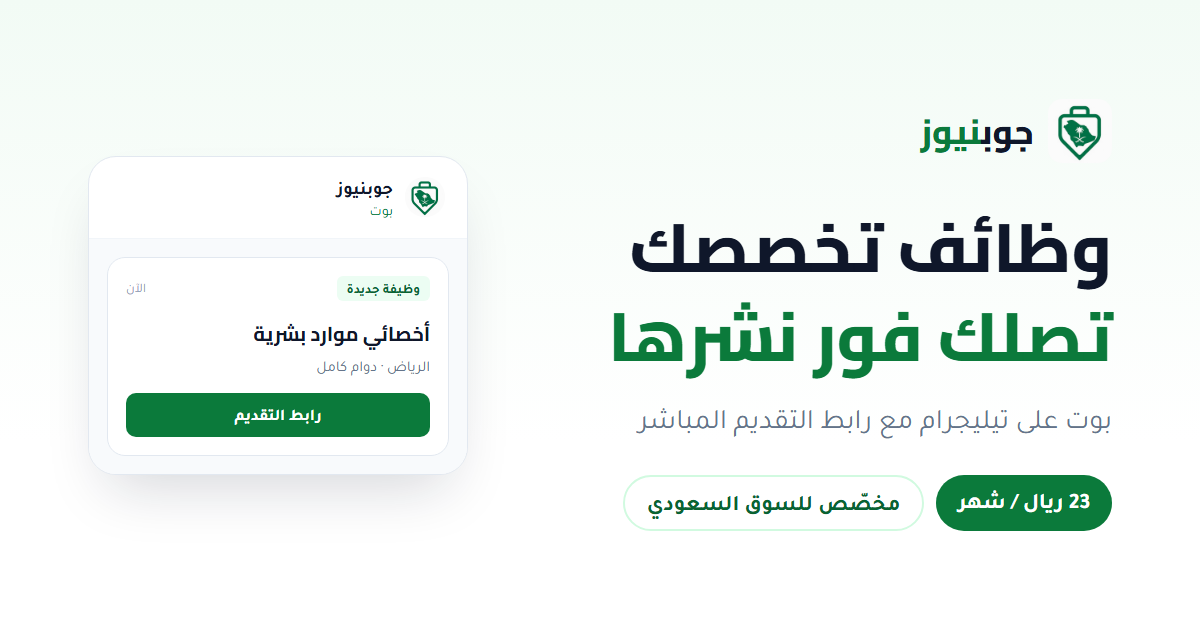
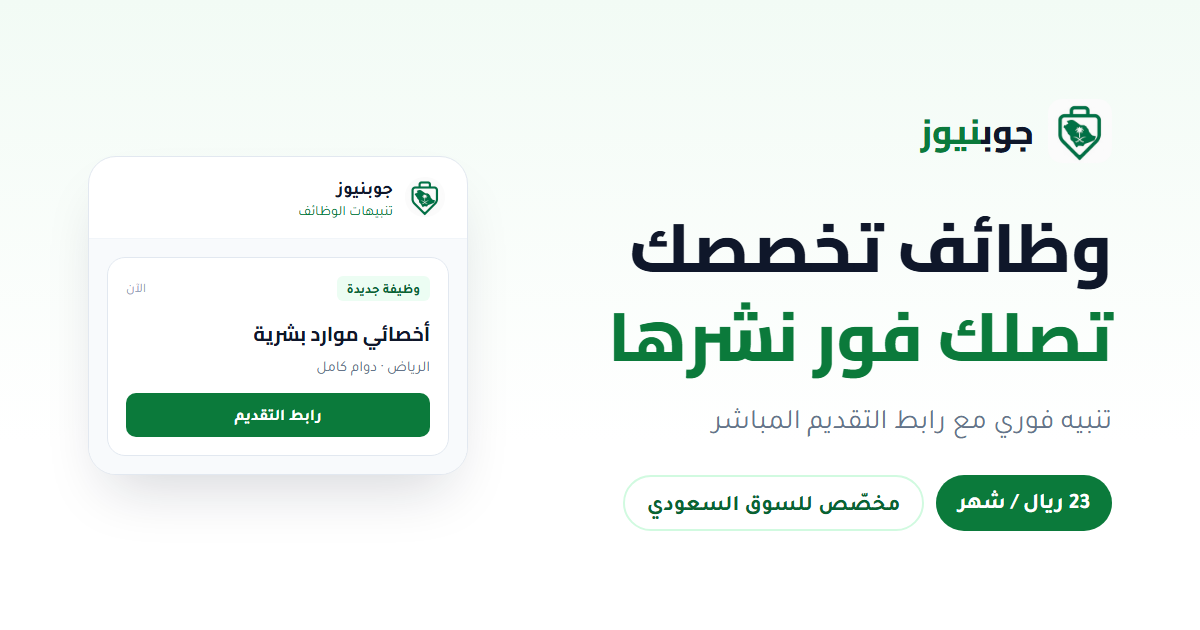
إزالة ذكر البوت وتيليجرام من نصوص الموقع
- إعادة صياغة الوصف الرئيسي ووصف المشاركة وميزة سهل الاستخدام
- حذف عبارة البوت من الصفحات القانونية دون تغيير المعنى
- تحديث صورة المشاركة

Changed region(s): [[0.5242, 0.6333, 0.925, 0.6937], [0.2467, 0.3317, 0.3392, 0.3619]]

diff --git a/index.html b/index.html
@@ -4,7 +4,7 @@
   <meta charset="UTF-8" />
   <meta name="viewport" content="width=device-width, initial-scale=1.0, viewport-fit=cover" />
   <title>جوبنيوز — أتمتة الوظائف وتنبيهات فورية</title>
-  <meta name="description" content="بوت على تيليجرام يرسل لك كل وظيفة جديدة تطلب تخصصك فور نشرها، مع رابط التقديم المباشر. مخصّص للسوق السعودي — 23 ريال لشهر واحد." />
+  <meta name="description" content="تنبيه فوري بكل وظيفة جديدة تطلب تخصصك، مع رابط التقديم المباشر. مخصّص للسوق السعودي — 23 ريال لشهر واحد." />
   <meta name="theme-color" content="#0b7a3b" />
   <link rel="canonical" href="https://jobnewsksa.com/" />
 
@@ -14,7 +14,7 @@
   <meta property="og:site_name" content="جوبنيوز" />
   <meta property="og:url" content="https://jobnewsksa.com/" />
   <meta property="og:title" content="جوبنيوز — وظائف تخصصك تصلك فور نشرها" />
-  <meta property="og:description" content="بوت على تيليجرام يرسل لك كل وظيفة جديدة تطلب تخصصك، مع رابط التقديم المباشر." />
+  <meta property="og:description" content="تنبيه فوري بكل وظيفة جديدة تطلب تخصصك، مع رابط التقديم المباشر." />
   <meta property="og:image" content="https://jobnewsksa.com/assets/og-image.png" />
   <meta property="og:image:width" content="1200" />
   <meta property="og:image:height" content="630" />
@@ -24,7 +24,7 @@
   <meta name="twitter:card" content="summary_large_image" />
   <meta name="twitter:site" content="@jobnewsksa" />
   <meta name="twitter:title" content="جوبنيوز — وظائف تخصصك تصلك فور نشرها" />
-  <meta name="twitter:description" content="بوت على تيليجرام يرسل لك كل وظيفة جديدة تطلب تخصصك، مع رابط التقديم المباشر." />
+  <meta name="twitter:description" content="تنبيه فوري بكل وظيفة جديدة تطلب تخصصك، مع رابط التقديم المباشر." />
   <meta name="twitter:image" content="https://jobnewsksa.com/assets/og-image.png" />
 
   <script type="application/ld+json">
@@ -214,7 +214,7 @@
           </h1>
 
           <p class="mx-auto lg:mx-0 mt-5 max-w-md text-lg leading-relaxed text-slate-500">
-            بوت على تيليجرام يرسل لك كل وظيفة جديدة تطلب تخصصك، مع رابط التقديم المباشر.
+            تنبيه فوري بكل وظيفة جديدة تطلب تخصصك، مع رابط التقديم المباشر.
           </p>
 
           <div class="mt-8 flex flex-col sm:flex-row items-center justify-center lg:justify-start gap-3">
@@ -227,15 +227,15 @@
           </div>
         </div>
 
-        <!-- معاينة تنبيه الوظيفة داخل البوت -->
-        <div class="reveal relative mx-auto w-full max-w-sm" role="img" aria-label="مثال لتنبيه وظيفة داخل بوت جوبنيوز">
+        <!-- معاينة تنبيه الوظيفة -->
+        <div class="reveal relative mx-auto w-full max-w-sm" role="img" aria-label="مثال لتنبيه وظيفة من جوبنيوز">
           <div class="pointer-events-none absolute -inset-6 rounded-[2.5rem] bg-saud-100/50 blur-2xl" aria-hidden="true"></div>
           <div class="relative overflow-hidden rounded-3xl border border-slate-200 bg-white shadow-2xl shadow-slate-900/10" aria-hidden="true">
             <div class="flex items-center gap-3 border-b border-slate-100 px-5 py-4">
               <img src="assets/logo.png" alt="" width="36" height="36" decoding="async" class="h-9 w-9 rounded-full object-contain ring-1 ring-slate-100" />
               <div class="text-right">
                 <p class="text-sm font-bold text-slate-900">جوبنيوز</p>
-                <p class="text-xs text-saud-600">بوت</p>
+                <p class="text-xs text-saud-600">تنبيهات الوظائف</p>
               </div>
             </div>
 
@@ -297,8 +297,8 @@
             <p class="mt-1.5 text-sm leading-relaxed text-slate-500">رابط التقديم مرفق مع كل وظيفة.</p>
           </div>
           <div class="reveal bg-white p-5 sm:p-7">
-            <svg class="h-6 w-6 text-saud-600" viewBox="0 0 24 24" fill="none" stroke="currentColor" stroke-width="2" stroke-linecap="round" stroke-linejoin="round" aria-hidden="true"><path d="M14.536 21.686a.5.5 0 0 0 .937-.024l6.5-19a.496.496 0 0 0-.635-.635l-19 6.5a.5.5 0 0 0-.024.937l7.93 3.18a2 2 0 0 1 1.112 1.11z"/><path d="m21.854 2.147-10.94 10.939"/></svg>
-            <h3 class="mt-4 font-display text-lg font-bold text-slate-900">داخل تيليجرام</h3>
+            <svg class="h-6 w-6 text-saud-600" viewBox="0 0 24 24" fill="none" stroke="currentColor" stroke-width="2" stroke-linecap="round" stroke-linejoin="round" aria-hidden="true"><path d="M4 14a1 1 0 0 1-.78-1.63l9.9-10.2a.5.5 0 0 1 .86.46l-1.92 6.02A1 1 0 0 0 13 10h7a1 1 0 0 1 .78 1.63l-9.9 10.2a.5.5 0 0 1-.86-.46l1.92-6.02A1 1 0 0 0 11 14z"/></svg>
+            <h3 class="mt-4 font-display text-lg font-bold text-slate-900">سهل الاستخدام</h3>
             <p class="mt-1.5 text-sm leading-relaxed text-slate-500">بدون تطبيق إضافي أو إعدادات معقّدة.</p>
           </div>
         </div>

diff --git a/privacy/index.html b/privacy/index.html
@@ -86,7 +86,7 @@
       <div>
         <h2 class="font-display text-xl font-bold text-slate-900">1. المعلومات التي نجمعها</h2>
         <ul class="mt-3 space-y-2 text-slate-600">
-          <li class="flex gap-3"><svg class="mt-1 h-4 w-4 text-saud-600 shrink-0" viewBox="0 0 24 24" fill="none" stroke="currentColor" stroke-width="2" stroke-linecap="round" stroke-linejoin="round" aria-hidden="true"><path d="M20 6 9 17l-5-5"/></svg> معرّف المستخدم في البوت واسم المستخدم لتقديم الخدمة.</li>
+          <li class="flex gap-3"><svg class="mt-1 h-4 w-4 text-saud-600 shrink-0" viewBox="0 0 24 24" fill="none" stroke="currentColor" stroke-width="2" stroke-linecap="round" stroke-linejoin="round" aria-hidden="true"><path d="M20 6 9 17l-5-5"/></svg> معرّف المستخدم واسم المستخدم لتقديم الخدمة.</li>
           <li class="flex gap-3"><svg class="mt-1 h-4 w-4 text-saud-600 shrink-0" viewBox="0 0 24 24" fill="none" stroke="currentColor" stroke-width="2" stroke-linecap="round" stroke-linejoin="round" aria-hidden="true"><path d="M20 6 9 17l-5-5"/></svg> تفضيلات التنبيهات مثل التخصص والمجال والمدينة.</li>
           <li class="flex gap-3"><svg class="mt-1 h-4 w-4 text-saud-600 shrink-0" viewBox="0 0 24 24" fill="none" stroke="currentColor" stroke-width="2" stroke-linecap="round" stroke-linejoin="round" aria-hidden="true"><path d="M20 6 9 17l-5-5"/></svg> بيانات الاشتراك والدفع (تُعالَج عبر مزوّد دفع معتمد ولا نخزّن بيانات بطاقتك).</li>
           <li class="flex gap-3"><svg class="mt-1 h-4 w-4 text-saud-600 shrink-0" viewBox="0 0 24 24" fill="none" stroke="currentColor" stroke-width="2" stroke-linecap="round" stroke-linejoin="round" aria-hidden="true"><path d="M20 6 9 17l-5-5"/></svg> بيانات تقنية محدودة لتحسين أداء الخدمة وموثوقيتها.</li>

diff --git a/terms/index.html b/terms/index.html
@@ -82,7 +82,7 @@
       <div>
         <h2 class="font-display text-xl font-bold text-slate-900">1. وصف الخدمة</h2>
         <p class="mt-3 text-slate-600">
-          جوبنيوز خدمة رقمية تعمل عبر البوت، تقوم بأتمتة البحث عن الوظائف وإرسال تنبيهات فورية
+          جوبنيوز خدمة رقمية تقوم بأتمتة البحث عن الوظائف وإرسال تنبيهات فورية
           للمشتركين بحسب تخصصهم واهتماماتهم. الخدمة تُقدَّم «كما هي» وقد نطوّرها أو نعدّل مميزاتها من وقت لآخر.
         </p>
       </div>

diff --git a/refund/index.html b/refund/index.html
@@ -90,7 +90,7 @@
       <div>
         <h2 class="font-display text-xl font-bold text-slate-900">1. طبيعة الخدمة</h2>
         <p class="mt-3 text-slate-600">
-          نظراً لأن جوبنيوز منتج رقمي يتم الوصول إليه والاستفادة منه فوراً عبر البوت بمجرد تفعيل
+          نظراً لأن جوبنيوز منتج رقمي يتم الوصول إليه والاستفادة منه فوراً بمجرد تفعيل
           الاشتراك، فإن قيمة الاشتراك المدفوعة لا تُسترجع كلياً أو جزئياً.
         </p>
       </div>
